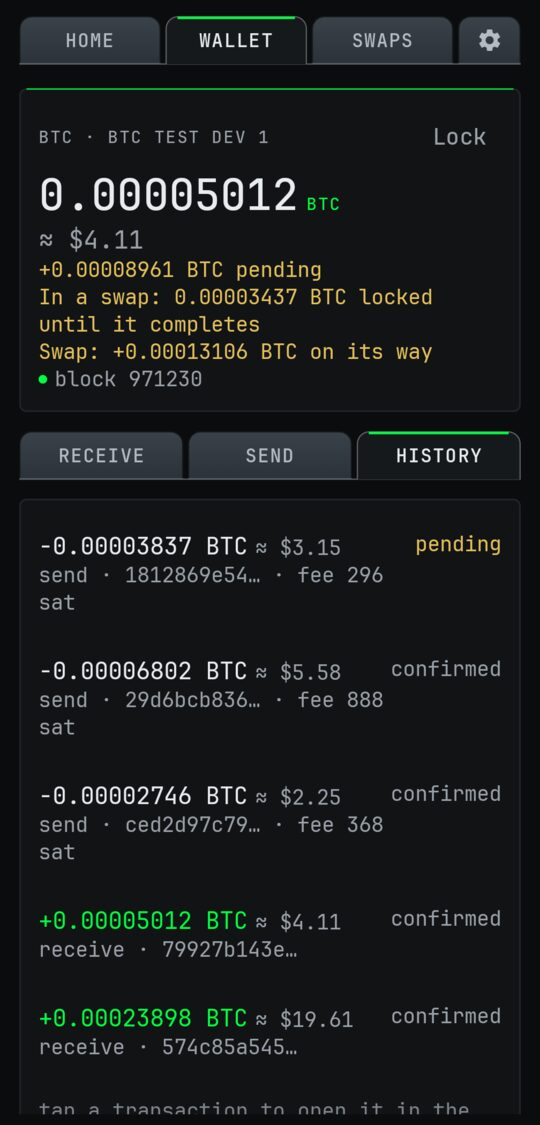
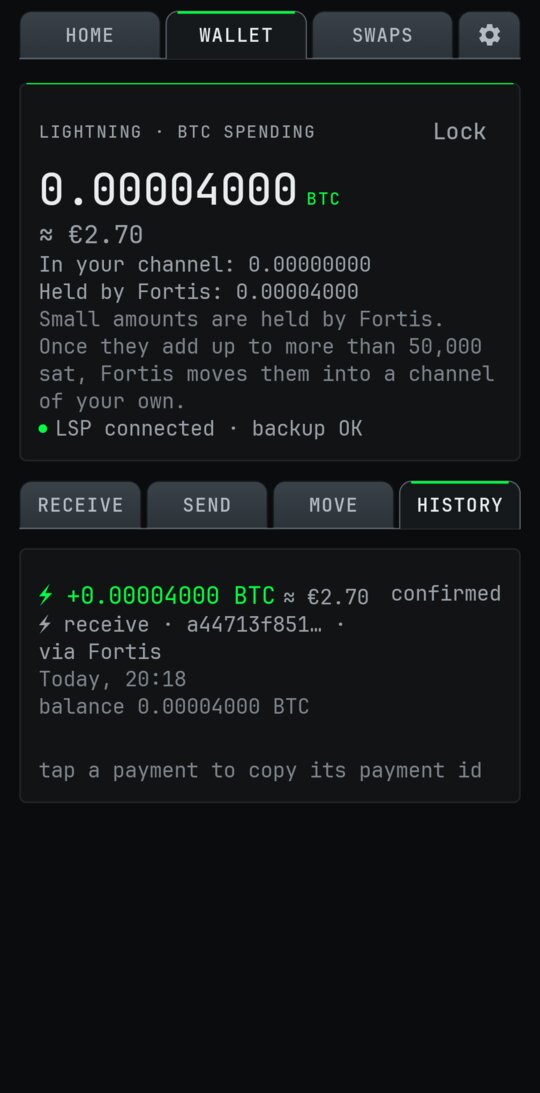
site: new screenshots (Lightning receive, history, move); Fortis balance moves at 50,000 sat

diff --git a/site/lightning.html b/site/lightning.html
@@ -53,7 +53,7 @@
       </div>
       <div>
         <dt>A reusable address (BOLT12)</dt>
-        <dd>One address you can share once and be paid to again and again, even while your phone is off. Payments to it go to your Fortis balance and move into your channel when you next open Fortis. Paying it needs a wallet that supports BOLT12.</dd>
+        <dd>One address you can share once and be paid to again and again, even while your phone is off. Payments to it go to your Fortis balance. Paying it needs a wallet that supports BOLT12.</dd>
       </div>
       <div>
         <dt>Send</dt>
@@ -86,8 +86,8 @@
     <p>A channel only makes sense above a minimum size. Below it, the network fee to open the channel would eat the payment. So small payments that arrive before you have a channel are held by Fortis on your <strong>Fortis balance</strong>. So are payments to your BOLT12 address, and payments you didn't collect within a few hours. Fortis holds this money, not your phone, so you're trusting us with it.</p>
     <ul>
       <li>The Lightning wallet shows the Fortis balance separately from your own channel.</li>
-      <li>It moves into your channel once you have one.</li>
-      <li>Each Fortis balance holds at most 50,000&nbsp;sat, and Fortis holds at most 300,000&nbsp;sat for all users together. Above that, you're asked to receive enough to open your own channel.</li>
+      <li>Once it adds up to more than 50,000&nbsp;sat, Fortis moves it into a channel of your own, minus a fee of 1% (at least 1,000&nbsp;sat).</li>
+      <li>Fortis holds at most 300,000&nbsp;sat for all users together. Above that, you're asked to receive enough to open your own channel.</li>
       <li>You can pay from it. Every movement in and out appears in your history.</li>
     </ul>
     <p>Money in your own channel is different: only your phone can sign for it.</p>

diff --git a/site/index.html b/site/index.html
@@ -104,10 +104,10 @@
         </details>
       </div>
       <div class="shots">
-        <img src="/img/android-home.jpg" alt="Fortis Wallet home: active swaps and your wallets" loading="lazy" width="540" height="1125">
-        <img src="/img/android-receive.jpg" alt="Fortis Wallet receive screen" loading="lazy" width="540" height="1125">
-        <img src="/img/android-send.jpg" alt="Fortis Wallet send screen" loading="lazy" width="540" height="1125">
-        <img src="/img/android-history.jpg" alt="Fortis Wallet history" loading="lazy" width="540" height="1125">
+        <img src="/img/android-home.jpg" alt="Fortis Wallet home: BTC, Lightning and XBT wallets" loading="lazy" width="540" height="1093">
+        <img src="/img/android-receive.jpg" alt="Lightning wallet: receive with an invoice QR code" loading="lazy" width="540" height="1093">
+        <img src="/img/android-history.jpg" alt="Lightning wallet: ledger history with the balance after each entry" loading="lazy" width="540" height="1093">
+        <img src="/img/android-move.jpg" alt="Lightning wallet: move to an on-chain BTC wallet" loading="lazy" width="540" height="1093">
       </div>
     </div>
 

diff --git a/site/privacy.html b/site/privacy.html
@@ -203,8 +203,8 @@
     <li><strong>The Fortis balance is custodial.</strong> Small payments that arrive
       before you have a channel, payments to your BOLT12 address, and payments you
       didn't collect within a few hours are held by Fortis Tech Labs on your Fortis
-      balance until they move into your channel. While they're there, we hold those
-      funds, not your phone. Each balance holds at most 50,000&nbsp;sat, and we hold at most 300,000&nbsp;sat for all users together.</li>
+      balance until they add up to more than 50,000&nbsp;sat and are moved into a channel of your own. While they're there, we hold those
+      funds, not your phone. We hold at most 300,000&nbsp;sat for all users together.</li>
     <li><strong>What VSS stores:</strong> encrypted copies of your channel state and
       payment records, plus a random device-lock token so two phones do not run the same
       channel at once. They're encrypted on your phone, with keys derived from the
